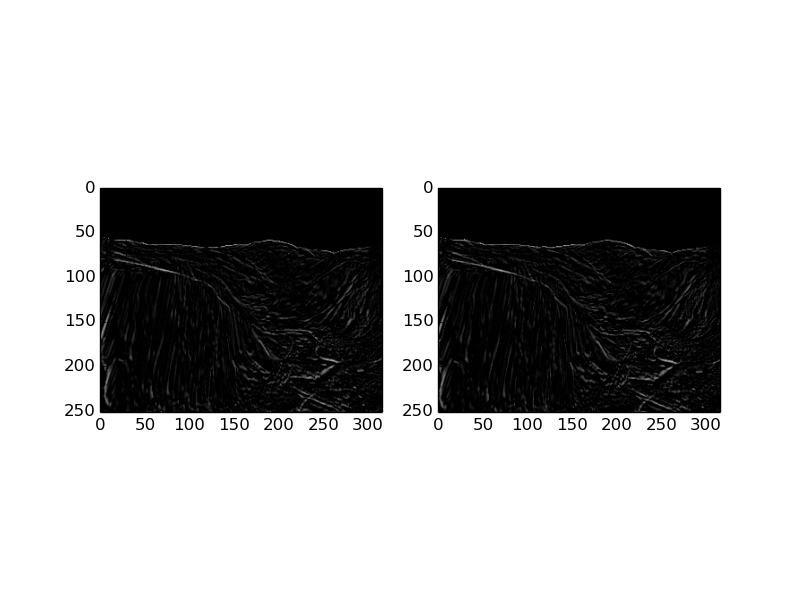
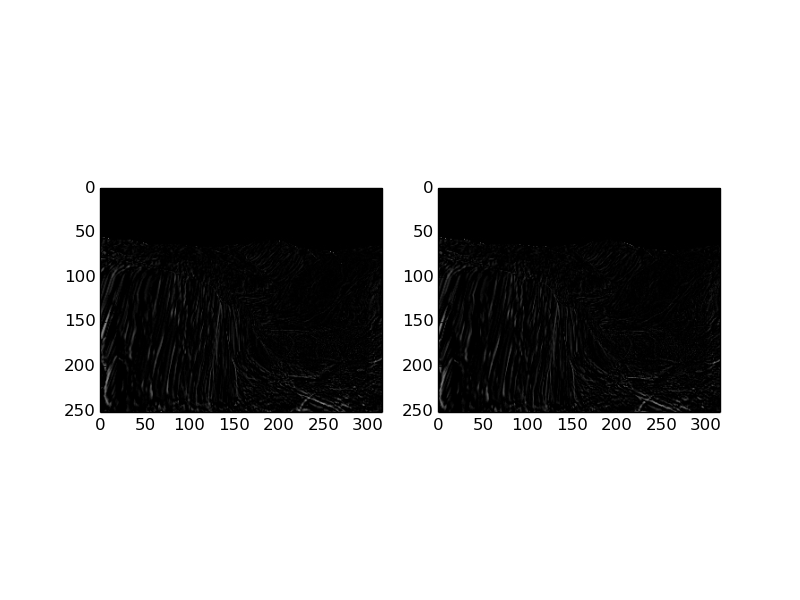
Fix image gradient calculation

diff --git a/ps5_python/lk_optic_flow.py b/ps5_python/lk_optic_flow.py
@@ -12,9 +12,9 @@ def lk_optic_flow(frame1, frame2, win=2):
     Ix = np.zeros(frame1.shape, dtype=np.float32)
     Iy = np.zeros(frame1.shape, dtype=np.float32)
     It = np.zeros(frame1.shape, dtype=np.float32)
-    Ix[1:-1, 1:-1] = (frame1[1:-1, 2:] - frame1[1:-1, :-2]) / 2
-    Iy[1:-1, 1:-1] = (frame1[2:, 1:-1] - frame1[:-2, 1:-1]) / 2
-    It[1:-1, 1:-1] = frame1[1:-1, 1:-1] - frame2[1:-1, 1:-1]
+    Ix[1:-1, 1:-1] = cv2.subtract(frame1[1:-1, 2:], frame1[1:-1, :-2]) / 2
+    Iy[1:-1, 1:-1] = cv2.subtract(frame1[2:, 1:-1], frame1[:-2, 1:-1]) / 2
+    It[1:-1, 1:-1] = cv2.subtract(frame1[1:-1, 1:-1], frame2[1:-1, 1:-1])
 
     params = np.zeros(frame1.shape + (5,))
     params[..., 0] = Ix ** 2
@@ -50,38 +50,27 @@ def my_lk_optic_flow(frame1, frame2, filter_size=5, threshold=0):
     '''
     My lucas kanade optic flow implementation
     '''
-    It = cv2.GaussianBlur(frame2 - frame1, (5,5), 0)
-    Ix = cv2.GaussianBlur(cv2.Sobel(frame1, cv2.CV_64F, 1, 0, 5), (5,5), 0)
-    Iy = cv2.GaussianBlur(cv2.Sobel(frame1, cv2.CV_64F, 0, 1, 5), (5,5), 0)
-    Ixx = Ix * Ix
-    Iyy = Iy * Iy
-    Ixy = Ix * Iy
-    Ixt = Ix * It
-    Iyt = Iy * It
+
+    It = cv2.subtract(frame1, frame2).astype(np.float32)
+    Ix, Iy = np.gradient(frame1)
+    Ix = Ix.astype(np.float32)
+    Ix = Ix.astype(np.float32)
 
     # calculate the gradient product accumulations for each pixel
-    Sxx = cv2.boxFilter(Ixx, -1, ksize=(filter_size,)*2, normalize=True)
-    Sxy = cv2.boxFilter(Ixy, -1, ksize=(filter_size,)*2, normalize=True)
-    Syy = cv2.boxFilter(Iyy, -1, ksize=(filter_size,)*2, normalize=True)
-    Sxt = cv2.boxFilter(Ixt, -1, ksize=(filter_size,)*2, normalize=True)
-    Syt = cv2.boxFilter(Iyt, -1, ksize=(filter_size,)*2, normalize=True)
-    del It, Ix, Iy, Ixx, Ixy, Iyy, Ixt, Iyt
+    Sxx = cv2.boxFilter(Ix**2, -1, ksize=(filter_size,)*2, normalize=True)
+    Sxy = cv2.boxFilter(Ix*Iy, -1, ksize=(filter_size,)*2, normalize=True)
+    Syy = cv2.boxFilter(Iy**2, -1, ksize=(filter_size,)*2, normalize=True)
+    Sxt = cv2.boxFilter(Ix*It, -1, ksize=(filter_size,)*2, normalize=True)
+    Syt = cv2.boxFilter(Iy*It, -1, ksize=(filter_size,)*2, normalize=True)
+    del It, Ix, Iy
+
     # calculate the displacement matrices U, V
     rows, cols = frame1.shape
-    flow = np.zeros((rows, cols, 2), dtype=np.float64)
+    flow = np.zeros((rows, cols, 2), dtype=np.float32)
     A = np.dstack((Sxx, Sxy, Sxy, Syy))
     b = np.dstack((-Sxt, -Syt))
-    #  threshold = 100
     for r in range(rows):
         for c in range(cols):
             flow[r,c,:] = np.linalg.lstsq(A[r,c].reshape((2,2)), b[r,c])[0]
-            #  ev,_ = np.linalg.eig(A[r,c].reshape((2,2)))
-            #  if ev[1] >= threshold and ev[0] >= threshold:
-                #  flow[r,c,:] = np.dot(np.linalg.inv(A[r,c].reshape((2,2))), b[r,c])
-            #  elif ev[1] >= threshold and ev[0] < threshold:
-                #  flow[r,c,:] = np.linalg.lstsq(A[r,c].reshape((2,2)), b[r,c])[0]
-            #  else:
-                #  flow[r,c,:] = 0
 
-    flow = -flow.astype(np.float32)
-    return flow
+    return -flow

diff --git a/ps5_python/ps5.py b/ps5_python/ps5.py
@@ -25,14 +25,14 @@ def ps5_1_a():
     #  fr1 = cv2.imread('input/DataSeq2/0.png', cv2.IMREAD_GRAYSCALE)
     #  fr2 = cv2.imread('input/DataSeq2/1.png', cv2.IMREAD_GRAYSCALE)
     #  fr3 = cv2.imread('input/DataSeq2/2.png', cv2.IMREAD_GRAYSCALE)
-    #  flow12 = cv2.calcOpticalFlowFarneback(fr2, fr1, None,
+    #  flow12 = cv2.calcOpticalFlowFarneback(fr1, fr2, None,
                                           #  0.5, 3, 15, 3, 5, 1.2, 0)
-    flow12 = lk_optic_flow(fr2, fr1, 15)
+    flow12 = lk_optic_flow(fr1, fr2, 15)
     flow13 = lk_optic_flow(fr1, fr3, 15)
     vis_optic_flow_arrows(fr1, flow12, 'output/ps5-1-a-1.png', show=False)
     vis_optic_flow_arrows(fr1, flow13, 'output/ps5-1-a-2.png', show=False)
-    #  cv2.imwrite('output/lala/flow1.jpg', vis_optic_flow(flow12))
-    #  cv2.imwrite('output/lala/flow2.jpg', vis_optic_flow(flow13))
+    cv2.imwrite('output/lala/flow1.jpg', vis_optic_flow(flow12))
+    cv2.imwrite('output/lala/flow2.jpg', vis_optic_flow(flow13))
 
 
 
@@ -73,7 +73,6 @@ def ps5_3_a_1():
     plot_n_save('output/ps5-3-a-2.png', diffs)
     cv2.imwrite('input/DataSeq1/yos_img_1_warped.jpg', warps[0])
     cv2.imwrite('input/DataSeq1/yos_img_2_warped.jpg', warps[1])
-    vis = []
     for i, flow in enumerate(flows):
         cv2.imwrite('output/lala/flow1'+str(i)+'.jpg', vis_optic_flow(flow))
 
@@ -82,10 +81,9 @@ def ps5_3_a_2():
     path = lambda i: 'input/DataSeq2/' + str(i) + '.png'
     frs = np.array([cv2.imread(path(i), cv2.IMREAD_GRAYSCALE) for i in range(3)])
     # apply LK to the sequence of images using constant level
-    flows, warps, diffs = single_level_lk(frs, levels=2, window=25)
+    flows, warps, diffs = single_level_lk(frs, levels=3, window=7)
     vis_optic_flow_arrows_multi(frs, flows, 'output/ps5-3-a-3.png')
     plot_n_save('output/ps5-3-a-4.png', diffs)
-    vis = []
     for i, flow in enumerate(flows):
         cv2.imwrite('output/lala/flow2'+str(i)+'.png', vis_optic_flow(flow))
 

diff --git a/ps5_python/single_level_lk.py b/ps5_python/single_level_lk.py
@@ -10,7 +10,7 @@ def single_level_lk(frs, levels, window):
     #  flows = [cv2.calcOpticalFlowFarneback(gpyrs[i][0], gpyrs[i+1][0], None,
                                            #  0.5, 3, window, 3, 5, 1.2, 0)
              #  for i in range(len(frs)-1)]
-    flows = [lk_optic_flow(frs[i], frs[i+1], window)#gpyrs[i][-1], gpyrs[i+1][-1], window)
+    flows = [-lk_optic_flow(frs[i], frs[i+1], window)#gpyrs[i][-1], gpyrs[i+1][-1], window)
              for i in range(len(frs)-1)]
     #  for i in range(len(flows)):
         #  for j in range(levels-1):

diff --git a/ps5_python/vis_optic_flow.py b/ps5_python/vis_optic_flow.py
@@ -40,7 +40,7 @@ def vis_optic_flow_arrows_multi(images, flows, filename, show=False):
         plot_idx = rows * 100 + cols * 10 + 1 + idx
         plt.subplot(plot_idx)
         plt.imshow(img, cmap='gray', interpolation='bicubic')
-        step=img.shape[0] / 15
+        step=img.shape[0] / 30
         x = np.arange(0, img.shape[1], 1)
         y = np.arange(0, img.shape[0], 1)
         x, y = np.meshgrid(x, y)
